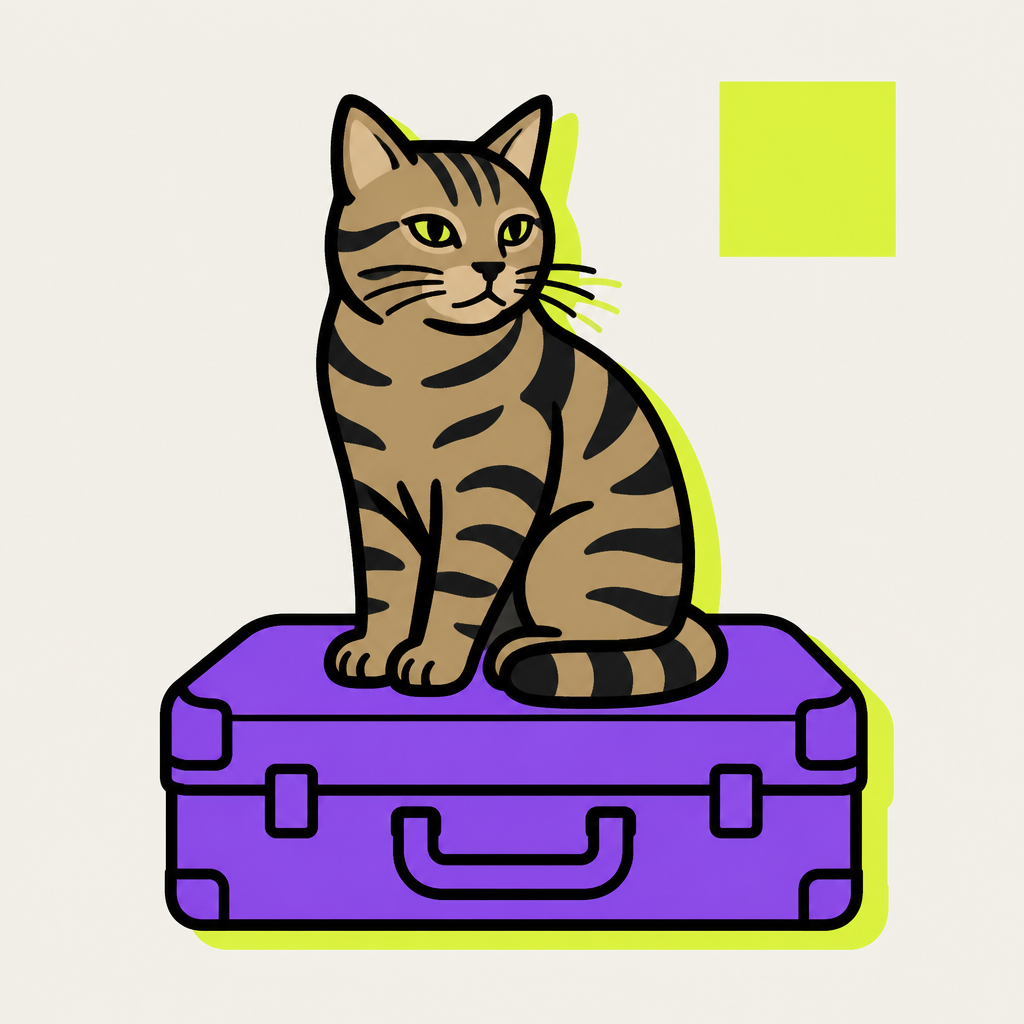
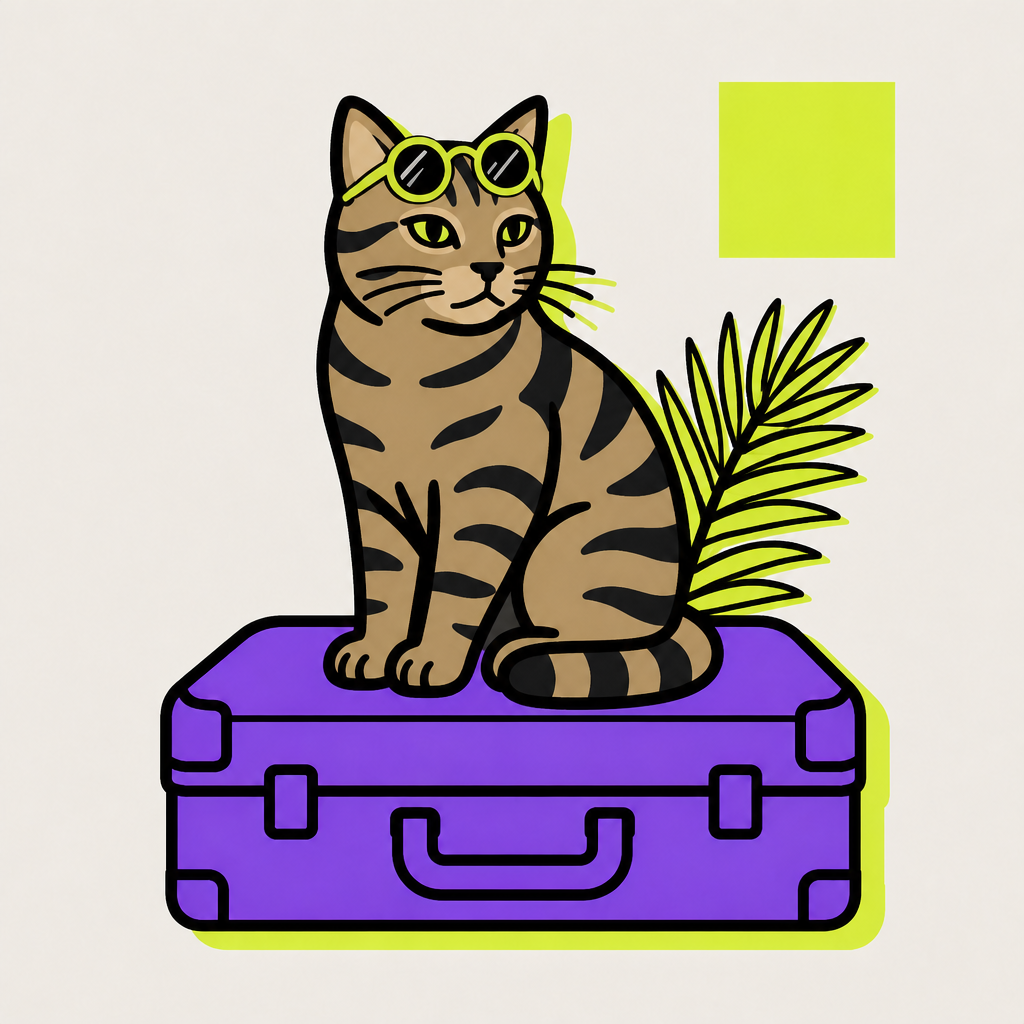
feat(pvm): cover — кот в очках и пальма
Welcome/intro берут тот же /memos/post-vacation-cover.png; эталон в design-refs.

diff --git a/docs/CHANGELOG.md b/docs/CHANGELOG.md
@@ -4,6 +4,11 @@
 
 ## 2026-08-26
 
+### Памятка: cover — кот в очках + пальма
+- Product cover welcome/intro: `frontend/public/memos/post-vacation-cover.png` ← эскиз `sketch-old-cat-glasses-palm.png` (очки на лбу, пальма, лайм-тень).
+- Эталон: `docs/design-refs/post-vacation-memo/cover.png`. Пути в `postVacationMemoSlides.ts` без смены (`/memos/post-vacation-cover.png`).
+- Проверка: стейдж `?pvm=1` — welcome и intro с новым артом.
+
 ### База знаний ИИ: уточнения в диалоге («ещё другие», «это все?»)
 - Симптом: после списка программатиков вопрос «напиши ещё другие…» → отказ «только по Базе знаний».
 - Причина: follow-up не распознавался (`isKbClarifyingFollowUp`), «программатик» не был workplace-hint → RAG/модель без склейки с темой; модель ставила OFFTOPIC на «другие».
